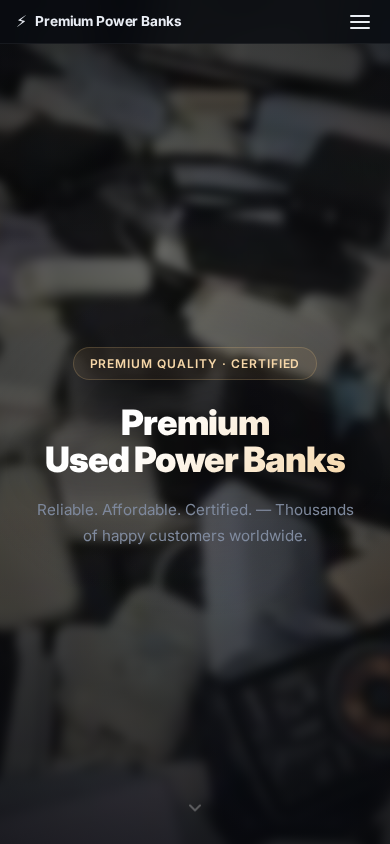
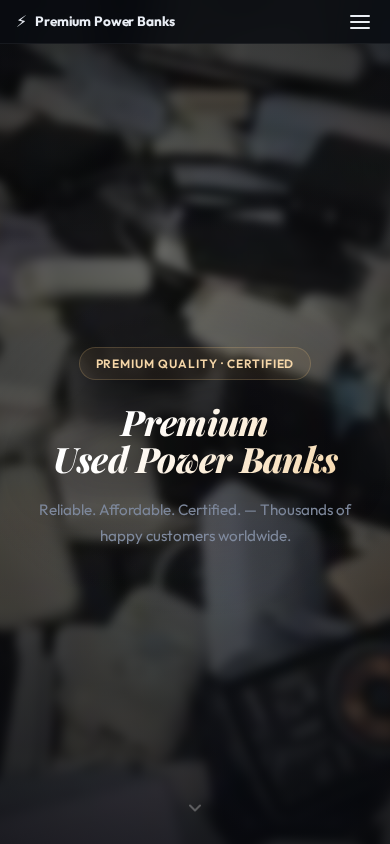
Premium fonts: Playfair Display italics for headings + Outfit body

Changed region(s): [[0.0923, 0.4005, 0.9231, 0.6469], [0.0923, 0.0, 0.4615, 0.0308], [0.5846, 0.4005, 0.7385, 0.4621]]

diff --git a/style.css b/style.css
@@ -2,8 +2,6 @@
    PREMIUM USED POWER BANKS — Pro Edition
    ═══════════════════════════════════════════ */
 
-@import url('https://fonts.googleapis.com/css2?family=Inter:opsz,wght@14..32,300;14..32,400;14..32,600;14..32,700;14..32,800;14..32,900&display=swap');
-
 /* ─── Reset ─── */
 *,*::before,*::after{margin:0;padding:0;box-sizing:border-box}
 
@@ -30,7 +28,7 @@ html{
 }
 
 body{
-  font-family:'Inter',system-ui,-apple-system,sans-serif;
+  font-family:'Outfit','Inter',system-ui,-apple-system,sans-serif;
   background:var(--bg);
   color:var(--text);
   overflow-x:hidden;
@@ -150,14 +148,16 @@ body{
 }
 
 .hero__title{
+  font-family:'Playfair Display','Times New Roman',serif;
   font-size:clamp(2.2rem,7vw,5.5rem);
-  font-weight:900;
+  font-weight:800;
+  font-style:italic;
   line-height:1.05;
-  letter-spacing:-0.03em;
-  background:linear-gradient(135deg,#fff 35%,var(--gold-light) 100%);
+  letter-spacing:-0.02em;
+  background:linear-gradient(135deg,#fff 30%,var(--gold-light) 100%);
   -webkit-background-clip:text;-webkit-text-fill-color:transparent;background-clip:text;
   margin-bottom:1.2rem;
-  filter:drop-shadow(0 4px 20px rgba(0,0,0,0.4));
+  filter:drop-shadow(0 4px 24px rgba(0,0,0,0.5));
 }
 
 .hero__sub{
@@ -231,8 +231,10 @@ body{
 .card__icon{font-size:2.2rem;display:block;margin-bottom:0.4rem}
 
 .card__title{
+  font-family:'Playfair Display','Times New Roman',serif;
   font-size:clamp(1.3rem,3vw,1.8rem);
-  font-weight:800;
+  font-weight:700;
+  font-style:italic;
   background:linear-gradient(135deg,#fff,var(--gold-light));
   -webkit-background-clip:text;-webkit-text-fill-color:transparent;background-clip:text;
 }
@@ -324,8 +326,10 @@ body{
 }
 
 .section__title{
+  font-family:'Playfair Display','Times New Roman',serif;
   font-size:clamp(1.8rem,4vw,3rem);
-  font-weight:800;
+  font-weight:700;
+  font-style:italic;
   line-height:1.15;
   background:linear-gradient(135deg,#fff,var(--gold-light));
   -webkit-background-clip:text;-webkit-text-fill-color:transparent;background-clip:text;

diff --git a/index.html b/index.html
@@ -5,7 +5,7 @@
   <meta name="viewport" content="width=device-width, initial-scale=1.0" />
   <title>Premium Used Power Banks</title>
   <link rel="preconnect" href="https://fonts.googleapis.com" />
-  <link href="https://fonts.googleapis.com/css2?family=Inter:opsz,wght@14..32,300;14..32,400;14..32,600;14..32,700;14..32,800;14..32,900&display=swap" rel="stylesheet" />
+  <link href="https://fonts.googleapis.com/css2?family=Outfit:wght@300..900&family=Playfair+Display:ital,wght@0,600..900;1,600..900&display=swap" rel="stylesheet" />
   <link rel="stylesheet" href="style.css" />
 </head>
 <body>